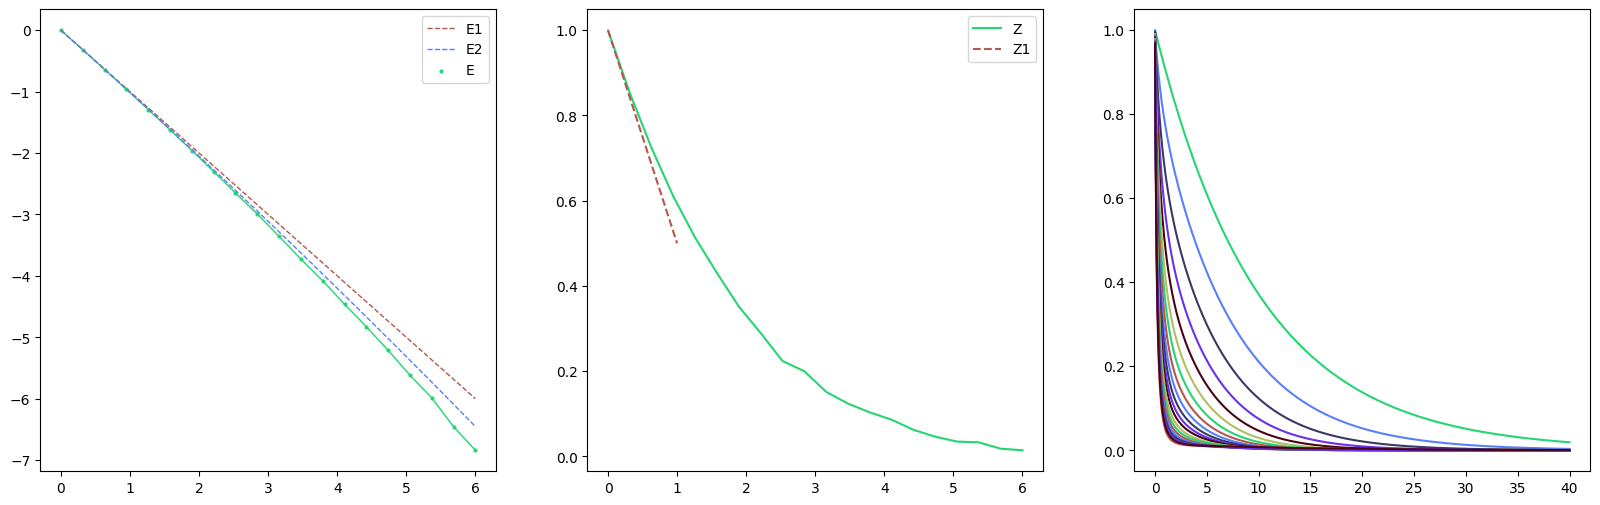
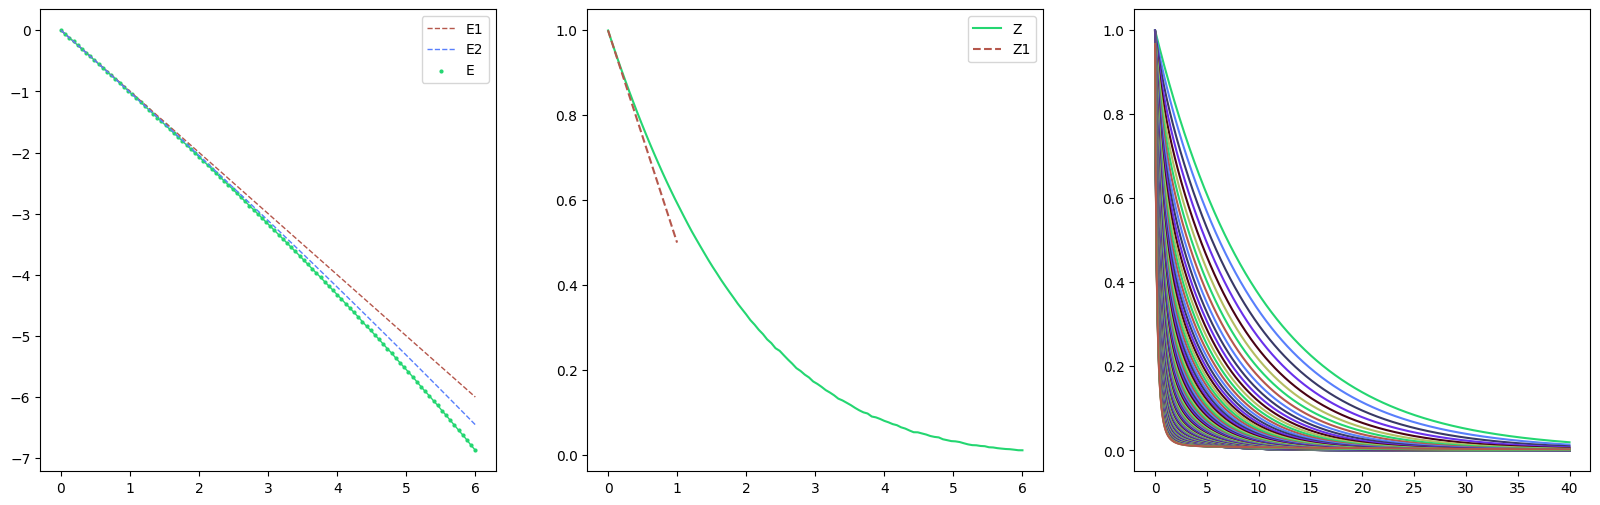
add re-run script

diff --git a/calculations/p_vs_e/main.py b/calculations/p_vs_e/main.py
@@ -1,7 +1,14 @@
 from calculations.utils import assure_input_correct, save_func
+from manager.json_parser import file_to_json
 from manager.run_executor import run_executor
 from manager.factory.easy_config import *
 from parameters import *
+
+
+def index_func():
+    input_json = file_to_json("input.json")
+    index = {"input.Configuration.momentum": input_json["Configuration"]["momentum"]}
+    return index
 
 
 # specify all arguments
@@ -10,11 +17,11 @@ easy_config.get_default_input(cfg_template_path)
 
 # iterate over all iterable arguments
 configs = []
-print(f"\talpha\tmu")
+print(f"\tmomentum\tmu")
 print(f"\t--------------")
 for momentum, mu, max_step in zip(momenta, mus, max_steps):
     # build the patch object
-    print(f"\t{alpha:.2f}\t{mu:.2f}")
+    print(f"\t{momentum:.4f}\t\t{mu:.4f}")
     patch = {
         "/Configuration/alpha": alpha,
         "/Configuration/momentum": momentum,
@@ -32,11 +39,13 @@ if clear and not assure_input_correct("Clearing all DB documents, continue?"):
     exit(0)
 
 executor = run_executor().configs(configs).run_dir(run_dir).store(store)
-executor.initialize(clear=clear)
+executor.initialize(clear=True)
 if clear:
     c = store.collection.delete_many({"tags.project": project_name})
     print(f"Deleted {c.deleted_count} documents from the store")
-    executor.run("mpirun -c 12 dmc")
 
-
-executor.save(function=save_func, tags={"project": project_name})
+executor.set_index("input.Configuration.momentum")
+executor.run("mpirun -c 14 dmc", index_path=["Configuration", "momentum"])
+executor.save(
+    index_function=index_func, object_function=save_func, tags={"project": project_name}
+)

diff --git a/calculations/p_vs_e/rerun.py b/calculations/p_vs_e/rerun.py
@@ -1,0 +1,37 @@
+from pathlib import Path
+import shutil
+from calculations.utils import assure_input_correct, save_func
+from manager.json_parser import file_to_json
+from manager.factory.easy_config import *
+from parameters import *
+import subprocess
+
+
+def index_func():
+    input_json = file_to_json("input.json")
+    index = {"input.Configuration.momentum": input_json["Configuration"]["momentum"]}
+    return index
+
+
+filter = {"input.Configuration.momentum": {"$gt": 1.2}}
+docs = store.collection.find(filter)
+N = store.collection.count_documents(filter)
+print(f"Found {N} documents that match the filter {filter}")
+run_dir = f"{cfg_dir}/rerun"
+shutil.rmtree(run_dir, ignore_errors=True)
+os.mkdir(run_dir)
+os.chdir(run_dir)
+for doc in docs:
+    input = doc["input"]
+    with open("input.json", "w") as cfg:
+        json.dump(input, cfg, indent=2)
+    checkpoints = doc["checkpoints"]
+    for idx, checkpoint in zip(range(len(checkpoints)), checkpoints):
+        with open(f"thread_{idx}", "wb") as f:
+            f.write(checkpoint)
+    subprocess.run("mpirun -c 14 dmc".split())
+    index = index_func()
+    items = save_func(tags={"project": project_name})
+    store.collection.replace_one(index, items)
+    for f in Path(run_dir).glob("*"):
+        os.remove(f)

diff --git a/calculations/p_vs_e/plot.py b/calculations/p_vs_e/plot.py
@@ -1,5 +1,5 @@
 import os
-from manager.analyzer import E0, E2, fit_exp
+from manager.analyzer import E1, E2, fit_exp
 from parameters import *
 
 # ============= RETRIEVAL =============
@@ -22,7 +22,7 @@ for z_estimate, result in zip(z_estimates, results):
     taus = np.array(fft["taus"])
     G_t = np.array(fft["G_t"])
     properties = result["run_properties"]
-    momentum = properties["momuntum"]
+    momentum = properties["momentum"]
     z, e = fit_exp(
         taus,
         G_t,
@@ -34,13 +34,12 @@ for z_estimate, result in zip(z_estimates, results):
     momenta.append(momentum)
     energies.append(e)
     z_values.append(z)
-    ax[2].plot(taus, G_t, label=f"alpha={alpha}")
-    ax[2].legend()
+    ax[2].plot(taus, G_t)
 
-momenta_fine = np.linspace(1, 5, 1000)
+momenta_fine = np.linspace(0, 1.4, 1000)
 ax[0].plot(momenta, energies, label=f"E")
-ax[0].plot(momenta_fine, E0(momentum, momenta_fine), linestyle="--", label="E0")
-ax[0].plot(momenta_fine, E2(momentum, momenta_fine), linestyle="--", label="E2")
+ax[0].plot(momenta_fine, E1(momenta_fine, alpha), linestyle="--", label="E1")
+ax[0].plot(momenta_fine, E2(momenta_fine, alpha), linestyle="--", label="E2")
 ax[0].legend()
 ax[1].plot(momenta, z_values, label=f"Z")
 ax[1].legend()

diff --git a/calculations/alpha_vs_e/plot.py b/calculations/alpha_vs_e/plot.py
@@ -7,7 +7,11 @@ from calculations.colors import setup_matplotlib
 setup_matplotlib()
 
 # ============= RETRIEVAL =============
-filter = {"run_properties.momentum": momentum, "tags.project": project_name}
+filter = {
+    "run_properties.momentum": momentum,
+    "tags.project": project_name,
+    "run_properties.steps_done_total": {"$gt": 2000000000},
+}
 results = store.collection.find(filter)
 N = store.collection.count_documents(filter)
 print(f"retrieved {N} documents with filter {filter}")

diff --git a/calculations/p_vs_e/parameters.py b/calculations/p_vs_e/parameters.py
@@ -10,8 +10,8 @@ root_dir = pathlib.Path().resolve()
 cfg_dir = f"{root_dir}/calculations/{project_name}"
 cfg_template_path = f"{cfg_dir}/default_config.json"
 run_dir = f"{cfg_dir}/runs"
-N = 3
-momenta = np.geomspace(0, 1.8, N)
-mus = np.geomspace(-1.1, -1.1, N)
-max_steps = np.linspace(10_000_000, 20_000_000, N)
+N = 100
+momenta = np.linspace(0, 1.8, N)
+mus = np.linspace(-1.1, -1.1, N)
+max_steps = np.linspace(100_000_000, 200_000_000, N)
 alpha = 1

diff --git a/manager/analyzer.py b/manager/analyzer.py
@@ -31,7 +31,7 @@ def fit_exp(
 
 
 def E1(momenta_, alphas_):
-    if momenta_ == 0:
+    if not isinstance(momenta_, np.ndarray) and momenta_ == 0:
         return -alphas_
     else:
         return np.power(momenta_, 2) / 2 - alphas_ * np.sqrt(2) / momenta_ * np.arcsin(
